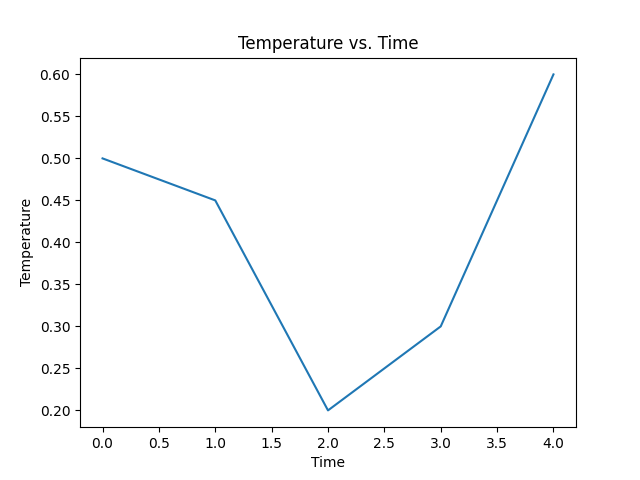
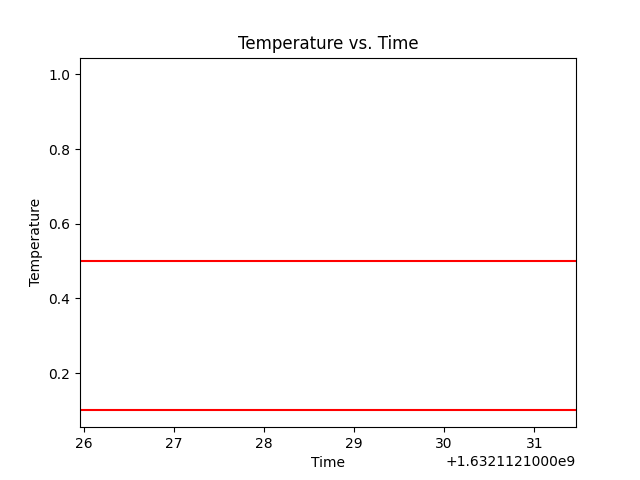
Almost done with Lab 1

diff --git a/exercise3.py b/exercise3.py
@@ -20,7 +20,9 @@ MAX_TEMP = 0.22
 MIN_TEMP = 0.18
 
 heaterPublisher = rospy.Publisher("/heater", std_msgs.String)
-
+thermostatPublisher = rospy.Publisher("/thermostat", std_msgs.Int64)
+temp_readings = []
+time_readings = []
 #print the data provided
 #for ROS functions, you always need the data parameter
 def my_function(data):
@@ -29,10 +31,15 @@ def my_function(data):
 	else:
 		heaterPublisher.publish("off")
 	print(data)
+	temp_readings.append(data)
+	time_readings.append(time.time())
 
 thermostatSub = rospy.Subscriber("/thermostat", std_msgs.Int64, my_function)
 
-time.sleep(10)
+starttime = time.time()
+time.sleep(5)
+endtime = time.time()
+
 
 thermostatSub.unregister() #this unregisters the ROS node from reading data. If not called , will continue to run the name plt
 
@@ -44,12 +51,22 @@ plt.xlabel("Time") #sets the x-axis label
 plt.ylabel("Temperature") #sets the y-axis label
 plt.title("Temperature vs. Time") #sets the title
 
-#this draw a horizontal line on the graph #to show a threshold value plt.axhline(y=0.1, color=’r’, linestyle=’-’) plt.axhline(y=0.5, color=’r’, linestyle=’-’)
-#this is temp data to be plotted
-data_to_be_plotted = [
-0.5,0.45,0.2,0.3,0.6
-]
+#this draws a horizontal line on the graph 
+#to show a threshold value 
+plt.axhline(y=0.1, color="r", linestyle="-")
+plt.axhline(y=0.5, color="r", linestyle="-")
 
-#plt.plot(x,y)
-plt.plot(list(range(0,len(data_to_be_plotted))),data_to_be_plotted)
-plt.show() #calling this will show the plot in the output
+#this is temp data to be plotted
+#data_to_be_plotted = [thermostatSubList
+#0.5,0.45,0.2,0.3,0.6
+#]
+
+y = [temp_readings]
+x = [time_readings]
+
+plt.plot(x,y)
+#plt.plot(list(range(0,len(data_to_be_plotted))),data_to_be_plotted)
+#plt.show() #calling this will show the plot in the output
+print(temp_readings)
+print(time_readings)
+plt.savefig("plot.png")

diff --git a/Lab1Report.py b/Lab1Report.py
@@ -1,0 +1,9 @@
+# = 0
+#myList = [1,2,3,4,5,6]
+#for i in range(0,len(myList)):
+#	if myList[i] % 2 == 0:
+#		counter += 1
+#print("Count: " + str(counter)) #what does this output?
+
+myString = "Hello World"
+print(myString[1:5]) #What does this output?
